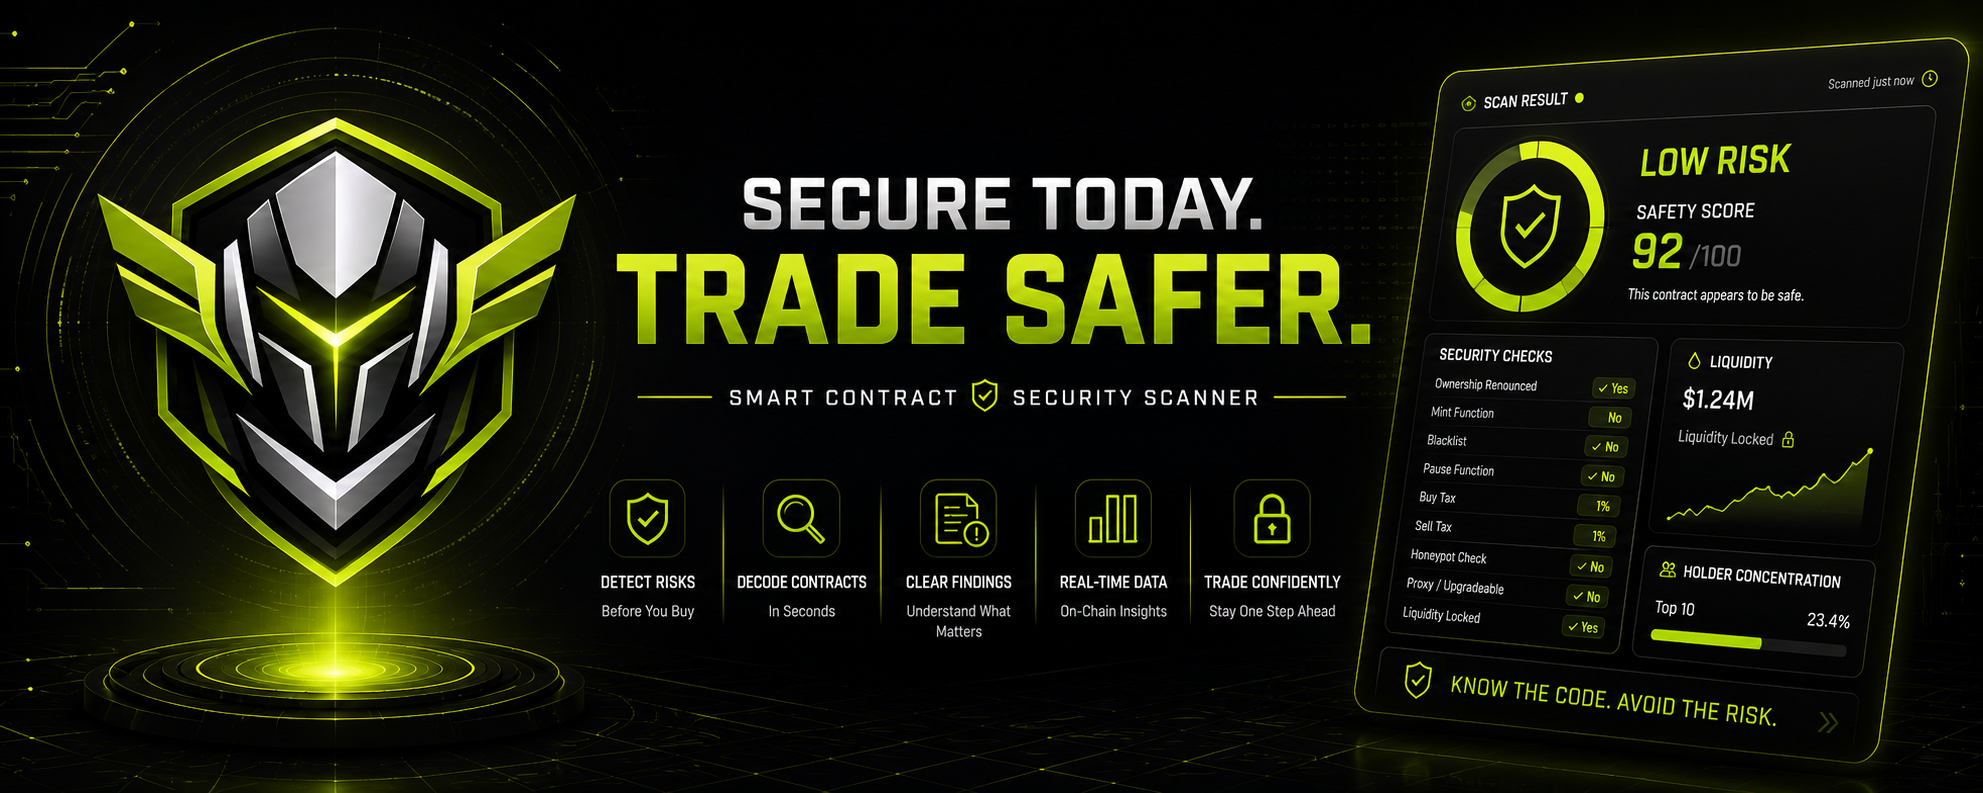
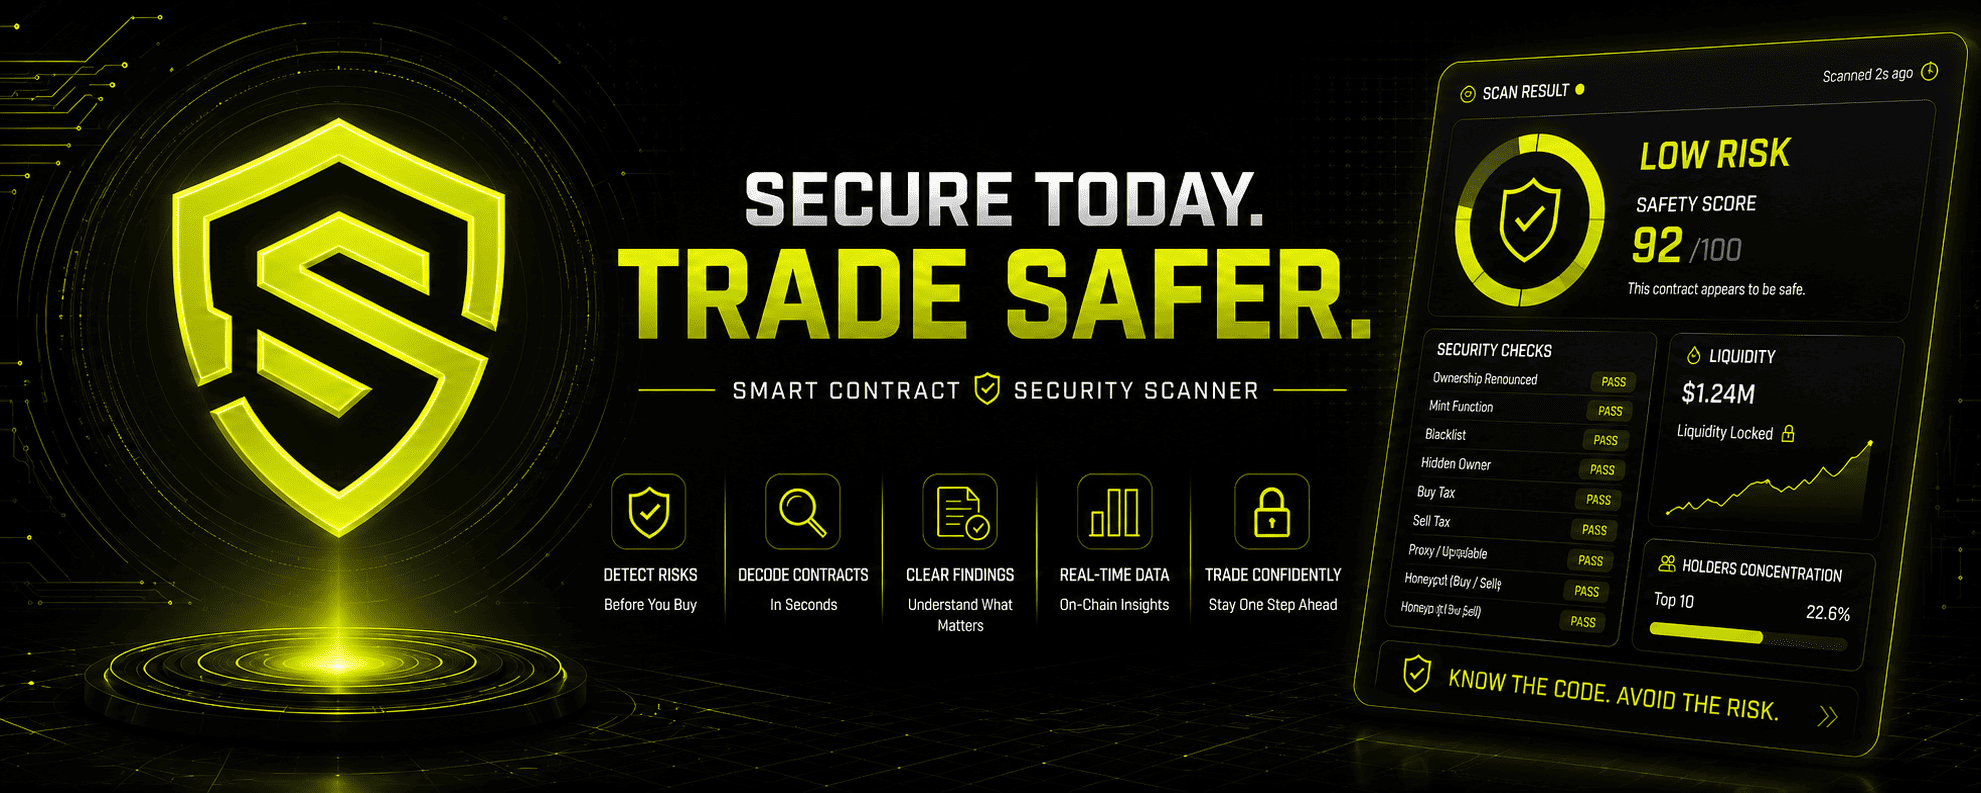
Replace Genesis Sentinel brand artwork

diff --git a/apps/web/src/app/layout.tsx b/apps/web/src/app/layout.tsx
@@ -30,7 +30,7 @@ export const metadata: Metadata = {
   openGraph: {
     type: "website",
     siteName: "Genesis Sentinel",
-    images: [{ url: socialImage, width: 1200, height: 630, alt: "Genesis Sentinel token scanner" }],
+    images: [{ url: socialImage, width: 1981, height: 793, alt: "Genesis Sentinel smart contract security scanner" }],
   },
   twitter: { card: "summary_large_image", images: [socialImage] },
 };

diff --git a/apps/web/src/app/token/[chainId]/[address]/page.tsx b/apps/web/src/app/token/[chainId]/[address]/page.tsx
@@ -47,7 +47,7 @@ export async function generateMetadata({ params }: Params): Promise<Metadata> {
       description,
       url: canonical,
       type: "article",
-      images: [{ url: image, width: 1200, height: 630, alt: "Genesis Sentinel token scanner" }],
+      images: [{ url: image, width: 1981, height: 793, alt: "Genesis Sentinel smart contract security scanner" }],
     },
     twitter: { card: "summary_large_image", title, description, images: [image] },
   };